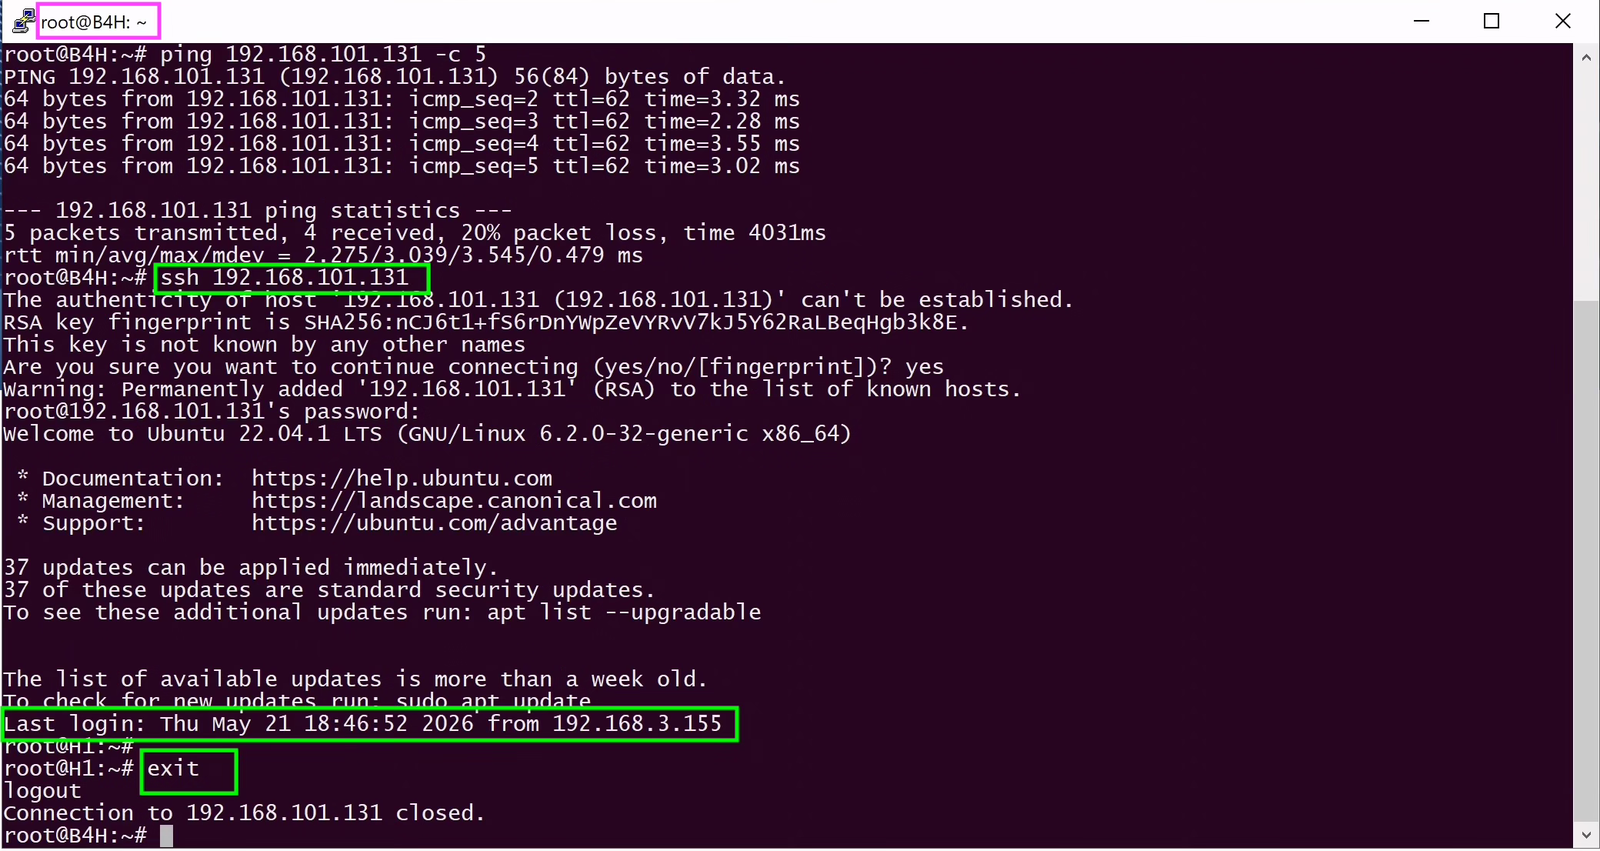
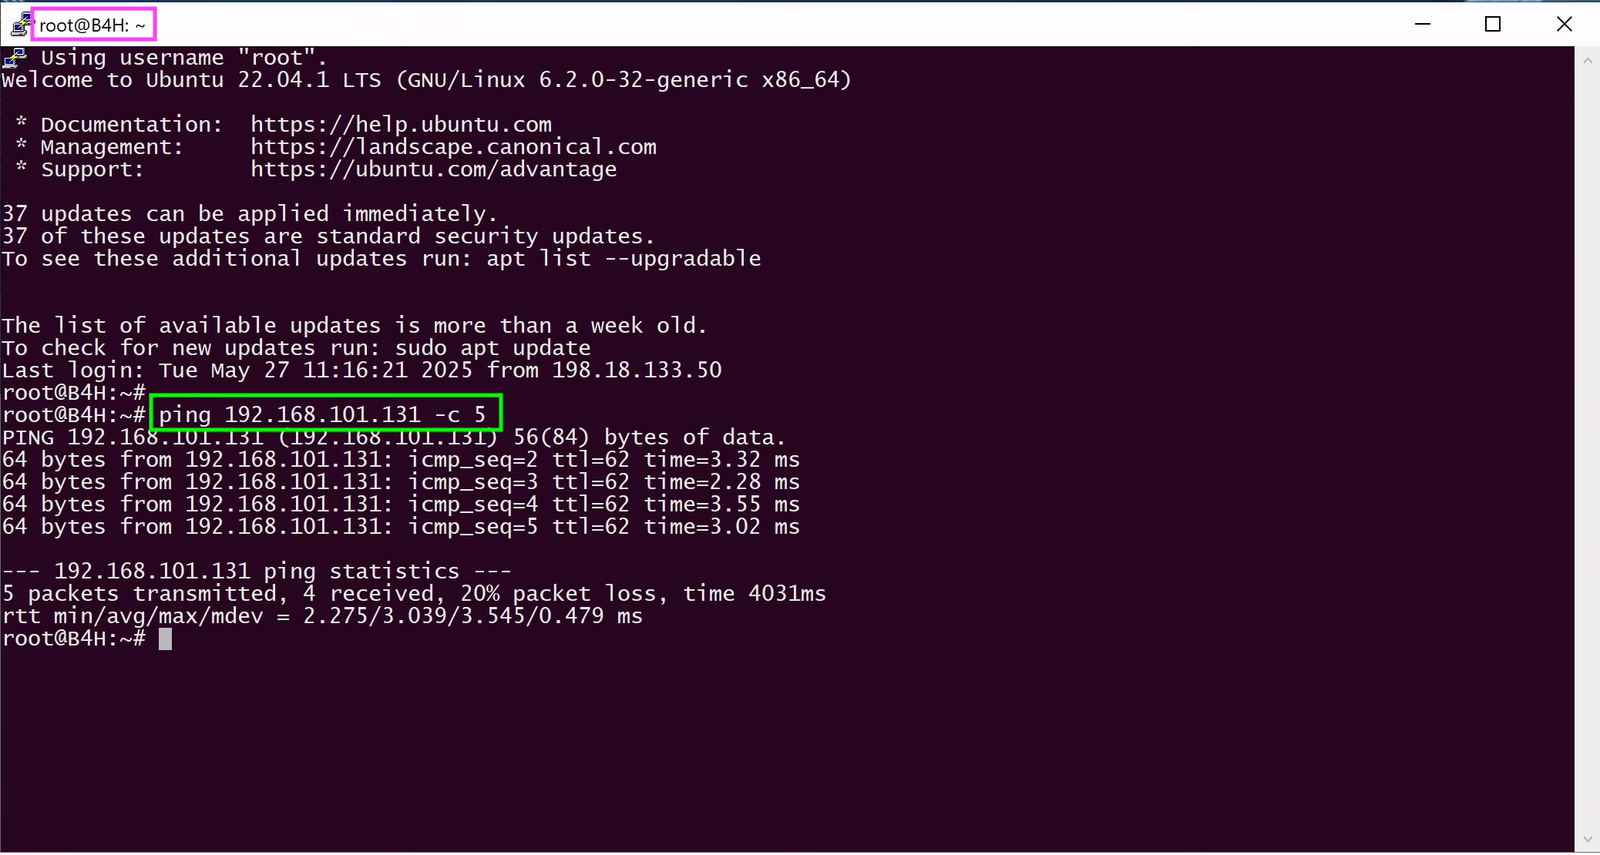
Apply Scenario 5 and 6 verification feedback
Scenario 5:
- Task 3 Step 3: prepend "Scroll down" to Finish-button instruction
  to match Scenario 3's wording.
- Task 9 Step 3: insert new Quick Launch screenshot (B4H highlighted)
  as s5-t9-s3-1.png; shift existing screens to s3-2/s3-3/s3-4 so each
  numbered step has its own correctly-aligned screenshot. Drop the
  now-duplicate image213.jpeg reference. Add the "For any prompt -
  type yes" note next to the SSH verification step, matching the
  pattern in Scenarios 1-3.

Scenario 6:
- Task 1 Step 2 point 5: rephrase to start with "You may scroll down
  and in the Service Access Control section..." so users know to
  scroll to find the section.
- Task 3 Step 1: add new Quick Launch screenshot (Wkst5 highlighted)
  as s6-t3-s1-1.png displayed right after the login credentials.
- Task 3 Step 1 point 3: insert "Wait for a few seconds and..."
  before "choose Connect Anyway" to reflect actual UI delay.
- Indent all figures within their parent list items for consistent
  visual nesting in both HTML and PDF.

Changed region(s): [[0.0, 0.0, 1.0, 1.0], [0.9688, 0.3361, 1.0, 0.9777]]

diff --git a/docs/scenario6.md b/docs/scenario6.md
@@ -75,30 +75,31 @@ access from regions and countries of your own choice.
 
 3.  Click **pencil** icon at the middle to edit it
 
-<figure markdown style="max-width:16.0cm;">
-  ![screenshot](assets/screens/s6-t1-s2-1.png){ loading=lazy }
-</figure>
+    <figure markdown style="max-width:16.0cm;">
+      ![screenshot](assets/screens/s6-t1-s2-1.png){ loading=lazy }
+    </figure>
 
 4.  Click on **Access Interfaces** tab
 
-5.  In the **Service Access Control** section, Select the service access
-    object that was just created **Corp-RA-Locations**
+5.  You may **scroll down** and in the **Service Access Control** section,
+    select the service access object that was just created
+    **Corp-RA-Locations**
 
-<figure markdown style="max-width:16.0cm;">
-  ![screenshot](assets/screens/s6-t1-s2-2-1.png){ loading=lazy }
-</figure>
+    <figure markdown style="max-width:16.0cm;">
+      ![screenshot](assets/screens/s6-t1-s2-2-1.png){ loading=lazy }
+    </figure>
 
-<figure markdown style="max-width:16.0cm;">
-  ![screenshot](assets/screens/s6-t1-s2-2-2.png){ loading=lazy }
-</figure>
+    <figure markdown style="max-width:16.0cm;">
+      ![screenshot](assets/screens/s6-t1-s2-2-2.png){ loading=lazy }
+    </figure>
 
 6.  The service access object now displays the rules summary and default
     action. Ensure this is correct and click **Save** on top right to
     save the configuration.
 
-<figure markdown style="max-width:16.0cm;">
-  ![screenshot](assets/screens/s6-t1-s2-3.png){ loading=lazy }
-</figure>
+    <figure markdown style="max-width:16.0cm;">
+      ![screenshot](assets/screens/s6-t1-s2-3.png){ loading=lazy }
+    </figure>
 
 ## Task 2: Deploy to Hub Device
 
@@ -133,32 +134,36 @@ the Hub and Spoke devices and deploy the configuration to the devices.
       
     Login using Credentials **admin/C1sco12345**.
 
-<figure markdown style="max-width:16.0cm;">
-  ![screenshot](assets/screens/s6-t3-s1-2.png){ loading=lazy }
-</figure>
+    <figure markdown style="max-width:16.0cm;">
+      ![screenshot](assets/screens/s6-t3-s1-1.png){ loading=lazy }
+    </figure>
+
+    <figure markdown style="max-width:16.0cm;">
+      ![screenshot](assets/screens/s6-t3-s1-2.png){ loading=lazy }
+    </figure>
 
 2.  Click on Windows Start Button and Open Cisco Secure Client
     application by clicking on pinned Icon.
 
-<figure markdown style="max-width:16.0cm;">
-  ![screenshot](assets/screens/s6-t3-s1-3.png){ loading=lazy }
-</figure>
+    <figure markdown style="max-width:16.0cm;">
+      ![screenshot](assets/screens/s6-t3-s1-3.png){ loading=lazy }
+    </figure>
 
-3.  Click on **Connect** with **Hub (SSL) IPv4** Profile. Choose
-    **Connect Anyway** on Security Warning dialog. The connection
-    attempt must have failed.
+3.  Click on **Connect** with **Hub (SSL) IPv4** Profile. Wait for a
+    few seconds and choose **Connect Anyway** on Security Warning
+    dialog. The connection attempt must have failed.
 
-<figure markdown style="max-width:16.0cm;">
-  ![screenshot](assets/screens/s6-t3-s1-4.png){ loading=lazy }
-</figure>
+    <figure markdown style="max-width:16.0cm;">
+      ![screenshot](assets/screens/s6-t3-s1-4.png){ loading=lazy }
+    </figure>
 
 4.  Verify with Troubleshooting Logs. To validate blocked connections,
     navigate on FMC to **Troubleshooting \> Advanced \>
     Troubleshooting Logs**. Click on **View All**.
 
-<figure markdown style="max-width:16.0cm;">
-  ![screenshot](assets/screens/s6.png){ loading=lazy }
-</figure>
+    <figure markdown style="max-width:16.0cm;">
+      ![screenshot](assets/screens/s6.png){ loading=lazy }
+    </figure>
 
 Observe the Log –
 

diff --git a/docs/scenario5.md b/docs/scenario5.md
@@ -135,8 +135,8 @@ Enter the following details in the **Add Spoke** dialog box:
 
 ### Step 3: SD-WAN Topology - Finish
 
-Click on **Finish** button to save the topology. Click **OK** for the
-pop-up dialog “**Click Finish to save your changes.**”
+**Scroll down** and click the **Finish** button to save the topology.
+Click **OK** for the pop-up dialog *"Click Finish to save your changes."*
 
 <figure markdown style="max-width:16.0cm;">
   ![screenshot](assets/screens/s5-t3-s3-1.png){ loading=lazy }
@@ -415,20 +415,20 @@ Network behind hub (**NGFW-HUB**) – 192.168.101.0/24 with a host
 
 1.  **Connect to B4H:** Open **Cisco Secure Firewall Quick Launch** and
     click on **B4H** which is present under **Linux VM Access.** This
-    opens **B4H**’s SSH session.
+    opens **B4H**'s SSH session.
 
-<figure markdown style="max-width:16.0cm;">
-  ![screenshot](assets/screens/s5-t9-s3-1.png){ loading=lazy }
-</figure>
+    <figure markdown style="max-width:16.0cm;">
+      ![screenshot](assets/screens/s5-t9-s3-1.png){ loading=lazy }
+    </figure>
 
 2.  **Verify Ping**
 
     1.  `ping 192.168.101.131 -c 5` which is the Host behind the
         Hub device NGFW-HUB and verify that you are getting the response
 
-<figure markdown style="max-width:16.0cm;">
-  ![screenshot](assets/screens/s5-t9-s3-2.png){ loading=lazy }
-</figure>
+    <figure markdown style="max-width:16.0cm;">
+      ![screenshot](assets/screens/s5-t9-s3-2.png){ loading=lazy }
+    </figure>
 
 3.  **Verify SSH Connection**
 
@@ -436,9 +436,13 @@ Network behind hub (**NGFW-HUB**) – 192.168.101.0/24 with a host
         verify SSH access works. After successful connection, you may
         **exit**.
 
-<figure markdown style="max-width:16.0cm;">
-  ![screenshot](assets/screens/s5-t9-s3-3.png){ loading=lazy }
-</figure>
+    !!! note
+        For any prompt &mdash; *"Are you sure you want to continue
+        connecting…?"* &mdash; type `yes`.
+
+    <figure markdown style="max-width:16.0cm;">
+      ![screenshot](assets/screens/s5-t9-s3-3.png){ loading=lazy }
+    </figure>
 
 4.  Launch the Unified Events Viewer (UEV) on FMC in a new tab and
     navigate to **Events & Logs \> Analysis \> Unified Events.** Check
@@ -447,9 +451,9 @@ Network behind hub (**NGFW-HUB**) – 192.168.101.0/24 with a host
     an IP in 192.168.33.X/24 (blue box below) subnet as seen at Hub,
     **NGFW-HUB**
 
-<figure markdown style="max-width:16.0cm;">
-  ![screenshot](assets/extracted/image213.jpeg){ loading=lazy }
-</figure>
+    <figure markdown style="max-width:16.0cm;">
+      ![screenshot](assets/screens/s5-t9-s3-4.png){ loading=lazy }
+    </figure>
 
 5.  You may close all opened the **PuTTY** sessions
 
